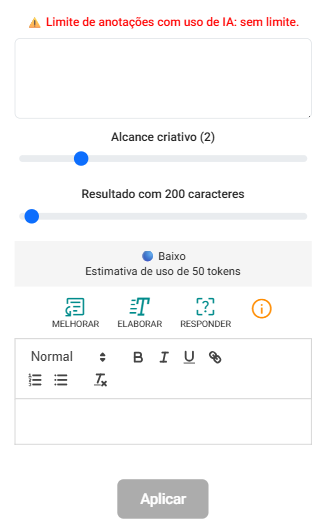
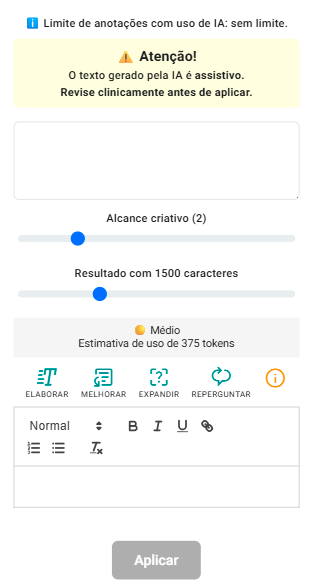
nilson

diff --git a/docs/08_funcionalidades/04-atendimentos/07-anotacoes-ia.md b/docs/08_funcionalidades/04-atendimentos/07-anotacoes-ia.md
@@ -41,11 +41,13 @@ A tela tem dois controles para personalização de resposta
 
 Abaixo dos controles, estão disponíveis três botões que definem como a IA irá processar o texto inserido:
 
-1. **Melhorar:** ![Atendimento](../../../static/img/prints/atendimento/056.png) Refina o texto digitado, corrigindo automaticamente erros de ortografia, pontuação e gramática. Também aprimora a fluidez e o estilo, tornando o conteúdo mais claro, natural e agradável de ler.
+1. **Elaborar:** ![Atendimento](../../../static/img/prints/atendimento/057.png) A IA criará um novo texto com base no Modelo de Registro Clínico escolhido, expandindo o conteúdo sem ser criativa.
 
-1. **Elaborar:** ![Atendimento](../../../static/img/prints/atendimento/057.png) Expande o texto com base na ideia original. A IA interpreta o conteúdo e desenvolve uma versão mais completa, adicionando detalhes, exemplos ou argumentos que enriquecem a mensagem.
+1. **Melhorar:** ![Atendimento](../../../static/img/prints/atendimento/056.png) A IA corrigirá erros ortográficos e aperfeiçoará a fluidez do seu texto, mantendo o conteúdo original.
 
-1. **Responder:** ![Atendimento](../../../static/img/prints/atendimento/058.png) Trata o conteúdo inserido como uma pergunta ou solicitação e gera uma resposta direta, clara e contextualizada — simulando uma conversa com o usuário.
+1. **Expandir:** ![Atendimento](../../../static/img/prints/atendimento/058.png) A IA adicionará complementos clínicos coerentes de forma criativa ao texto, tentando não alterar o sentido original.
+
+1. **Reperguntar:** ![Atendimento](../../../static/img/prints/atendimento/089.png) O sistema transferirá o texto da resposta para o campo superior, dando início a um novo ciclo de interação com a IA.
 
 ## Campo de Resultado (Inferior)
 

diff --git a/docs/08_funcionalidades/04-atendimentos/09-lembretes.md b/docs/08_funcionalidades/04-atendimentos/09-lembretes.md
@@ -4,7 +4,7 @@ sidebar_position: 9
 
 # Marcadores Clínicos
 
-A funcionalidade "Marcadores Clínicos" no sistema eConsult é uma ferramenta estratégica e altamente eficaz para aprimorar a organização, o foco e a qualidade dos atendimentos realizados. Com ela, os profissionais podem configurar até **seis tipos diferentes de marcadores**, cada um representado por uma **cor distinta**, o que proporciona uma visualização rápida e intuitiva das informações essenciais relacionadas a cada caso.
+A funcionalidade "Marcadores Clínicos" no sistema eConsult é uma ferramenta estratégica e altamente eficaz para aprimorar a organização, o foco e a qualidade dos atendimentos realizados. Com ela, os profissionais podem configurar até **quetro tipos diferentes de marcadores por atendimento**, cada um representado por uma **cor distinta**, o que proporciona uma visualização rápida e intuitiva das informações essenciais relacionadas a cada caso.
 
 Essa **codificação por cores** permite que os usuários identifiquem com facilidade os marcadores vinculados a um atendimento específico, facilitando a distinção entre diferentes categorias de ações, como follow-ups, pendências administrativas, exames a serem solicitados, entre outros. Dessa forma, as prioridades são evidenciadas com clareza, reduzindo a chance de esquecimentos e contribuindo para uma tomada de decisão mais ágil e assertiva.
 

diff --git a/docs/08_funcionalidades/02-clientes-grupos/01_cadastro/110_aba-creditos-e-perdas.md b/docs/08_funcionalidades/02-clientes-grupos/01_cadastro/110_aba-creditos-e-perdas.md
@@ -133,5 +133,5 @@ Para registrar uma determida perda (baixa contábil), você deve selecionar um a
     :::
 
     :::warning 
-    O sistema impede o registro de novos atendimentos para paciente ou grupo terapêutico que tem perdas registradas.
+    O sistema solicitará confirmação para novos atendimentos para pacientes ou grupos terapêuticos que tem perdas registradas.
     :::

diff --git a/docs/08_funcionalidades/13-perdas-baixas-contabeis/00-visao.md b/docs/08_funcionalidades/13-perdas-baixas-contabeis/00-visao.md
@@ -101,5 +101,5 @@ Para que sejam considerados "Realizados", é necessário confirmar a efetivaçã
 :::
 
 :::warning 
-O sistema impede o registro de novos atendimentos para paciente ou grupo terapêutico que tem perdas registradas.
+O sistema solicitará confirmação para novos atendimentos para pacientes ou grupos terapêuticos que tem perdas registradas.
 :::
